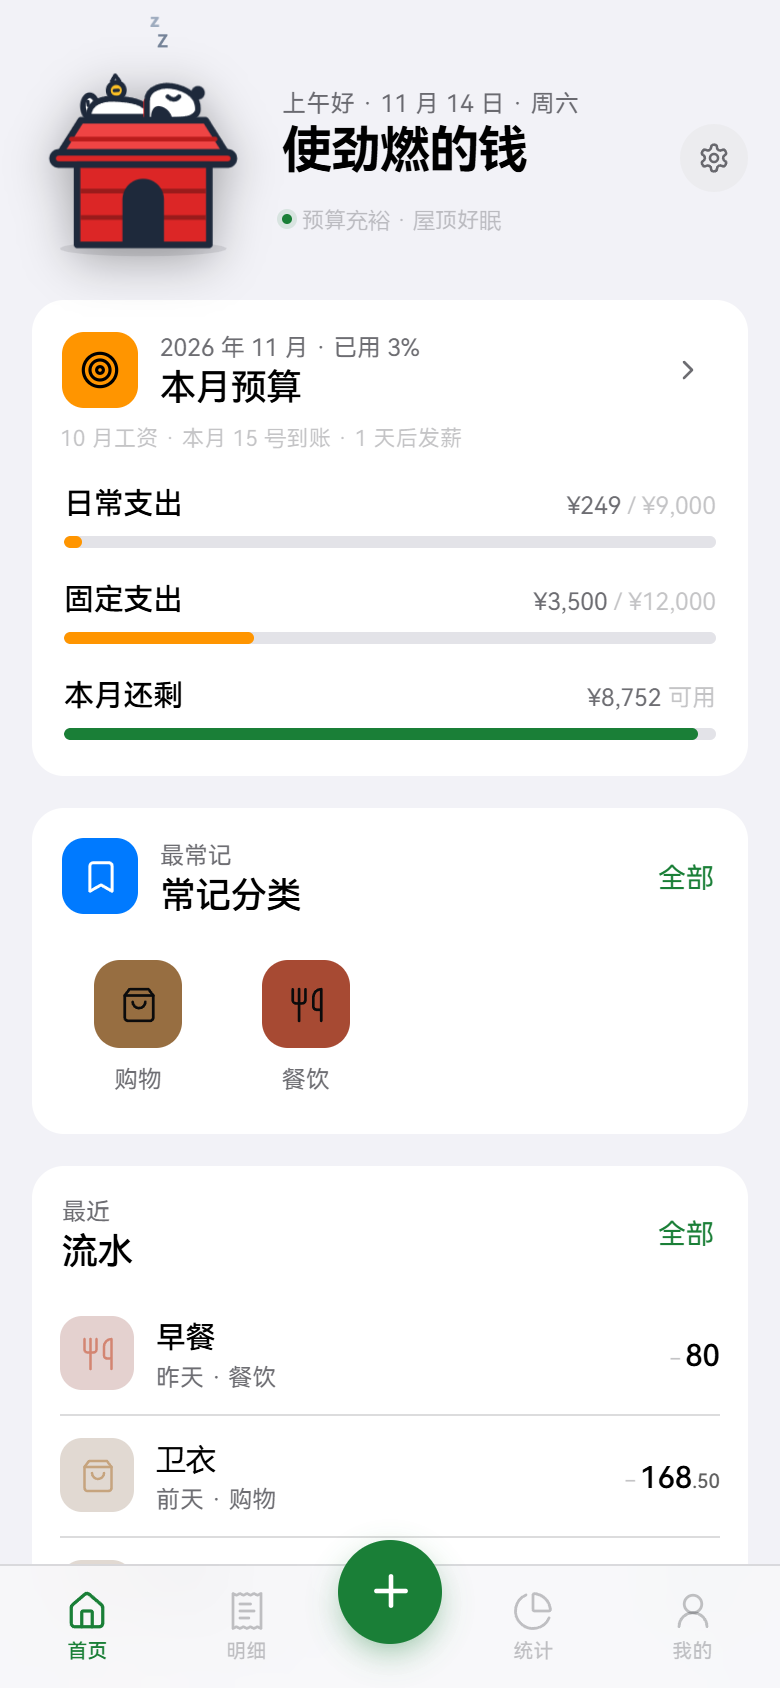
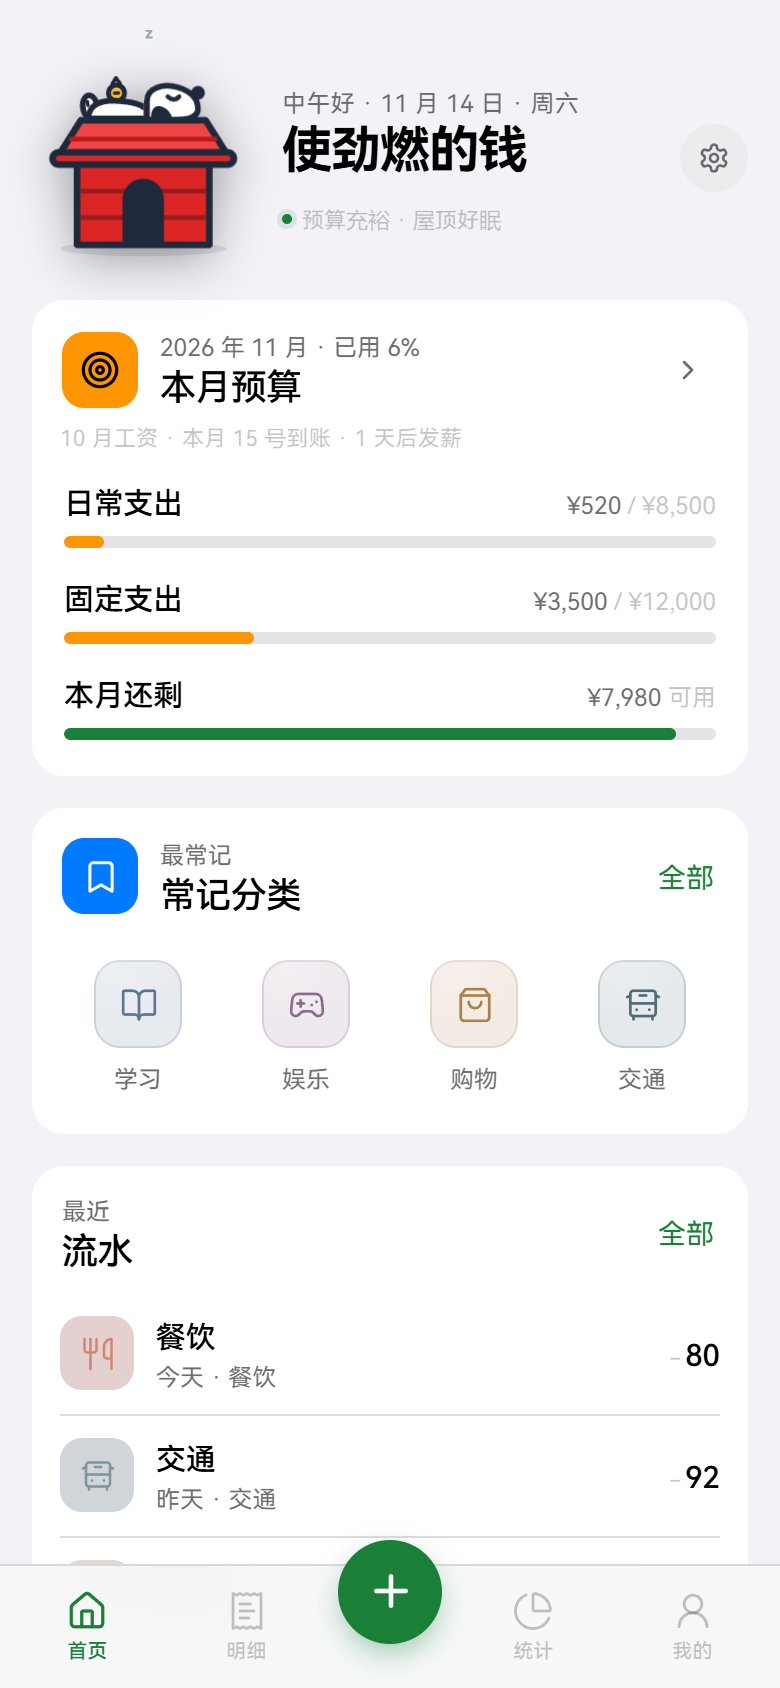
首页：常记分类改成低饱和色底与本色图标

diff --git a/src/styles/og.css b/src/styles/og.css
@@ -318,8 +318,23 @@ body {
 }
 
 .og-tile.is-cat {
-  background: color-mix(in srgb, var(--cat) 86%, #000);
-  color: #0b0b0c;
+  background:
+    radial-gradient(120% 95% at 30% 12%, color-mix(in srgb, #fff 24%, transparent), transparent 62%),
+    color-mix(in srgb, var(--cat) 15%, var(--card));
+  color: var(--cat);
+  box-shadow:
+    inset 0 0 0 1px color-mix(in srgb, var(--cat) 22%, transparent),
+    inset 0 1px 0 color-mix(in srgb, #fff 45%, transparent);
+}
+
+:root[data-theme="dark"] .og-tile.is-cat {
+  background:
+    radial-gradient(120% 95% at 30% 12%, color-mix(in srgb, #fff 10%, transparent), transparent 62%),
+    color-mix(in srgb, var(--cat) 24%, var(--card));
+  color: color-mix(in srgb, var(--cat) 52%, var(--ink));
+  box-shadow:
+    inset 0 0 0 1px color-mix(in srgb, var(--cat) 32%, transparent),
+    inset 0 1px 0 color-mix(in srgb, #fff 14%, transparent);
 }
 
 .og-icon-btn {

diff --git a/src/pages/Me.tsx b/src/pages/Me.tsx
@@ -209,7 +209,7 @@ export function Me() {
       <footer className="me-foot">
         <img className="me-brand-icon" src={appIcon} alt="使劲燃的钱" />
         <div>
-          <b>使劲燃的钱 v1.1.25</b>
+          <b>使劲燃的钱 v1.1.26</b>
           <p><ShieldCheck size={13} strokeWidth={1.6} /> 数据只保存在这台手机上，不上传</p>
         </div>
         <button

diff --git a/CHANGELOG.md b/CHANGELOG.md
@@ -1,5 +1,10 @@
 # 更新记录
 
+## 1.1.26 — 2026-11-14
+
+- 首页「常记分类」的图标块不再压成深色实块：浅色主题改成低饱和分类色底 + 分类本色图标，深色主题单独提亮图标，解决餐饮、交通等图标在深底上发闷、发紫的问题。
+- 分类图标块加了一层很轻的顶部高光和 1px 同色内描边，和设置里的高光图标徽章保持同一套质感。
+
 ## 1.1.25 — 2026-11-14
 
 - 明细日历的倒计时渐变改为跟随强调色：不再固定 GitHub 四级绿，而是用当前强调色与卡片底色混合出四档，浅色和深色主题各自取合适的混合比例。

diff --git a/README.md b/README.md
@@ -7,7 +7,7 @@
 - 纯本地存储，不联网、不上传、无广告、无账号
 - 深色 / 浅色 / 跟随系统 + 8 个强调色的可换主题，新装默认浅色；炭灰卡片、16px 间距、鸿蒙 Sans 中文 + Nunito 圆体数字；版式与主题系统参考 openGym，代码全部重写
 - 冷启动直接渐显存钱罐海报：深青底上海报淡入、轻微拉焦，停留后虚化交给首页；不再先闪一下桌面图标
-- 安装包：`release/使劲燃的钱-1.1.25.apk`（约 5.0 MB，minSdk 23 / targetSdk 35）
+- 安装包：`release/使劲燃的钱-1.1.26.apk`（约 5.0 MB，minSdk 23 / targetSdk 35）
 
 ## 功能
 
